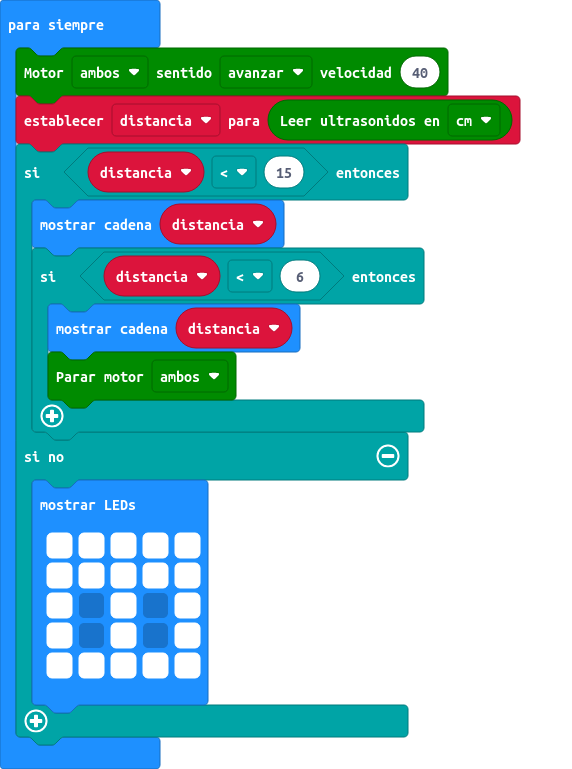
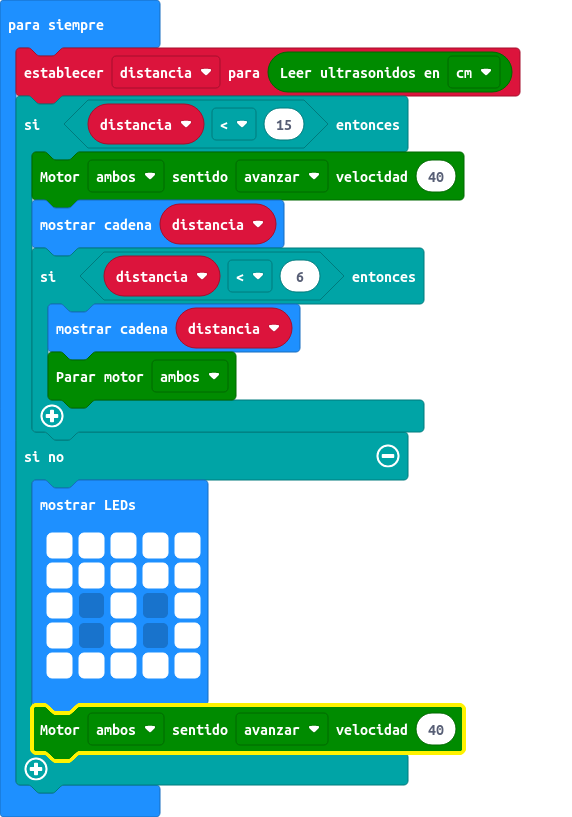
Actualizar main.blocks, main.ts

diff --git a/main.ts b/main.ts
@@ -1,8 +1,8 @@
 let distancia = 0
 basic.forever(function () {
-    maqueen.motorRun(maqueen.Motors.All, maqueen.Dir.CW, 40)
     distancia = maqueen.Ultrasonic(PingUnit.Centimeters)
     if (distancia < 15) {
+        maqueen.motorRun(maqueen.Motors.All, maqueen.Dir.CW, 40)
         basic.showString("" + (distancia))
         if (distancia < 6) {
             basic.showString("" + (distancia))
@@ -16,5 +16,6 @@ basic.forever(function () {
             # . # . #
             # # # # #
             `)
+        maqueen.motorRun(maqueen.Motors.All, maqueen.Dir.CW, 40)
     }
 })
